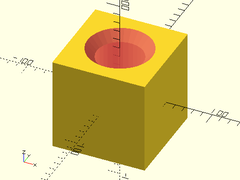
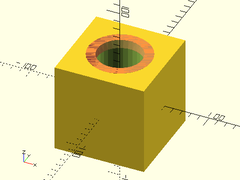
Updated docs and images for masks.

diff --git a/masks.scad.md b/masks.scad.md
@@ -334,8 +334,9 @@ Argument        | What it does
 `chamfer`       | Size of the chamfer. (Default: 0.25)
 `ang`           | Angle of chamfer in degrees from vertical.  (Default: 45)
 `from_end`      | If true, chamfer size is measured from end of hole.  If false, chamfer is measured outset from the radius of the hole.  (Default: false)
+`overage`       | The extra thickness of the mask.  Default: `0.1`.
 
-**Example**:
+**Example 1**:
 
     difference() {
         cube(100, center=true);
@@ -343,7 +344,13 @@ Argument        | What it does
         up(50) #chamfer_hole_mask(d=50, chamfer=10);
     }
 
-![chamfer\_hole\_mask() Example](images/masks/chamfer_hole_mask.png)
+![chamfer\_hole\_mask() Example 1](images/masks/chamfer_hole_mask.png)
+
+**Example 2**:
+
+    chamfer_hole_mask(d=100, chamfer=25, ang=30, overage=10);
+
+![chamfer\_hole\_mask() Example 2](images/masks/chamfer_hole_mask_2.png)
 
 ---
 
@@ -653,16 +660,23 @@ Argument        | What it does
 `fillet`        | radius of the edge filleting. (Default: 0.25)
 `xtilt`         | angle of tilt of end of cylinder in the X direction. (Default: 0)
 `ytilt`         | angle of tilt of end of cylinder in the Y direction. (Default: 0)
+`overage`       | The extra thickness of the mask.  Default: `0.1`.
 
-**Example**:
+**Example 1**:
 
     difference() {
       cube([150,150,100], center=true);
       cylinder(r=50, h=100.1, center=true);
-      up(50) #fillet_hole_mask(r=50, fillet=10, xtilt=0, ytilt=0);
+      up(50) #fillet_hole_mask(r=50, fillet=10);
     }
 
-![fillet\_hole\_mask() Example](images/masks/fillet_hole_mask.png)
+![fillet\_hole\_mask() Example 1](images/masks/fillet_hole_mask.png)
+
+**Example 2**:
+
+    fillet_hole_mask(r=40, fillet=20, $fa=2, $fs=2);
+
+![fillet\_hole\_mask() Example 2](images/masks/fillet_hole_mask_2.png)
 
 ---
 
